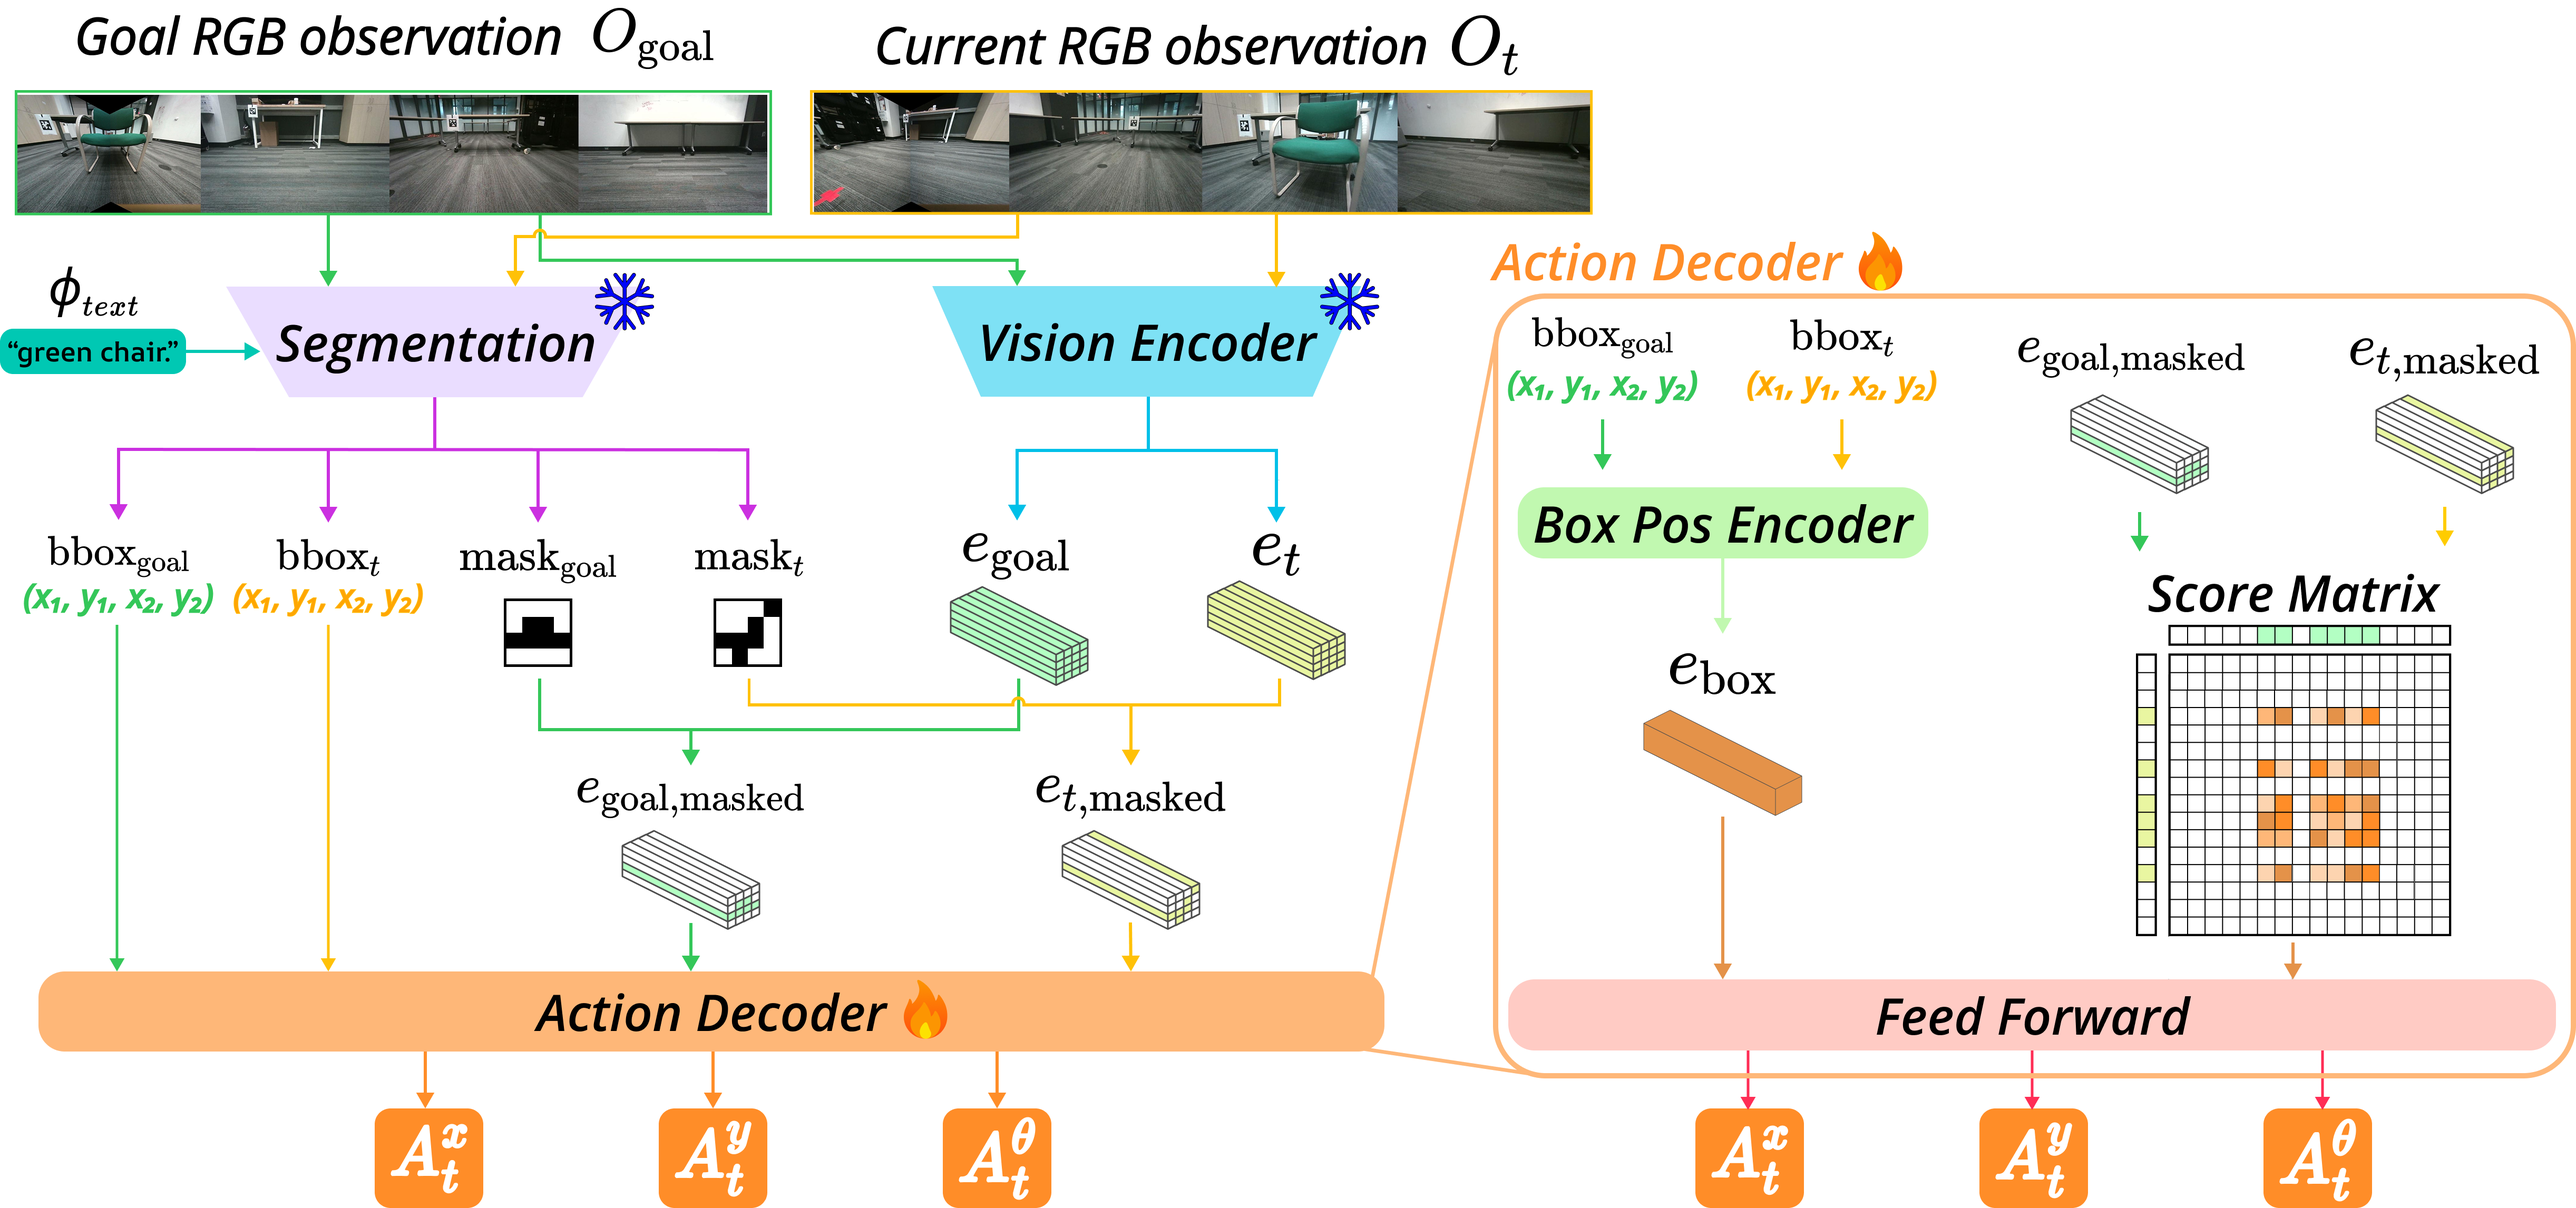
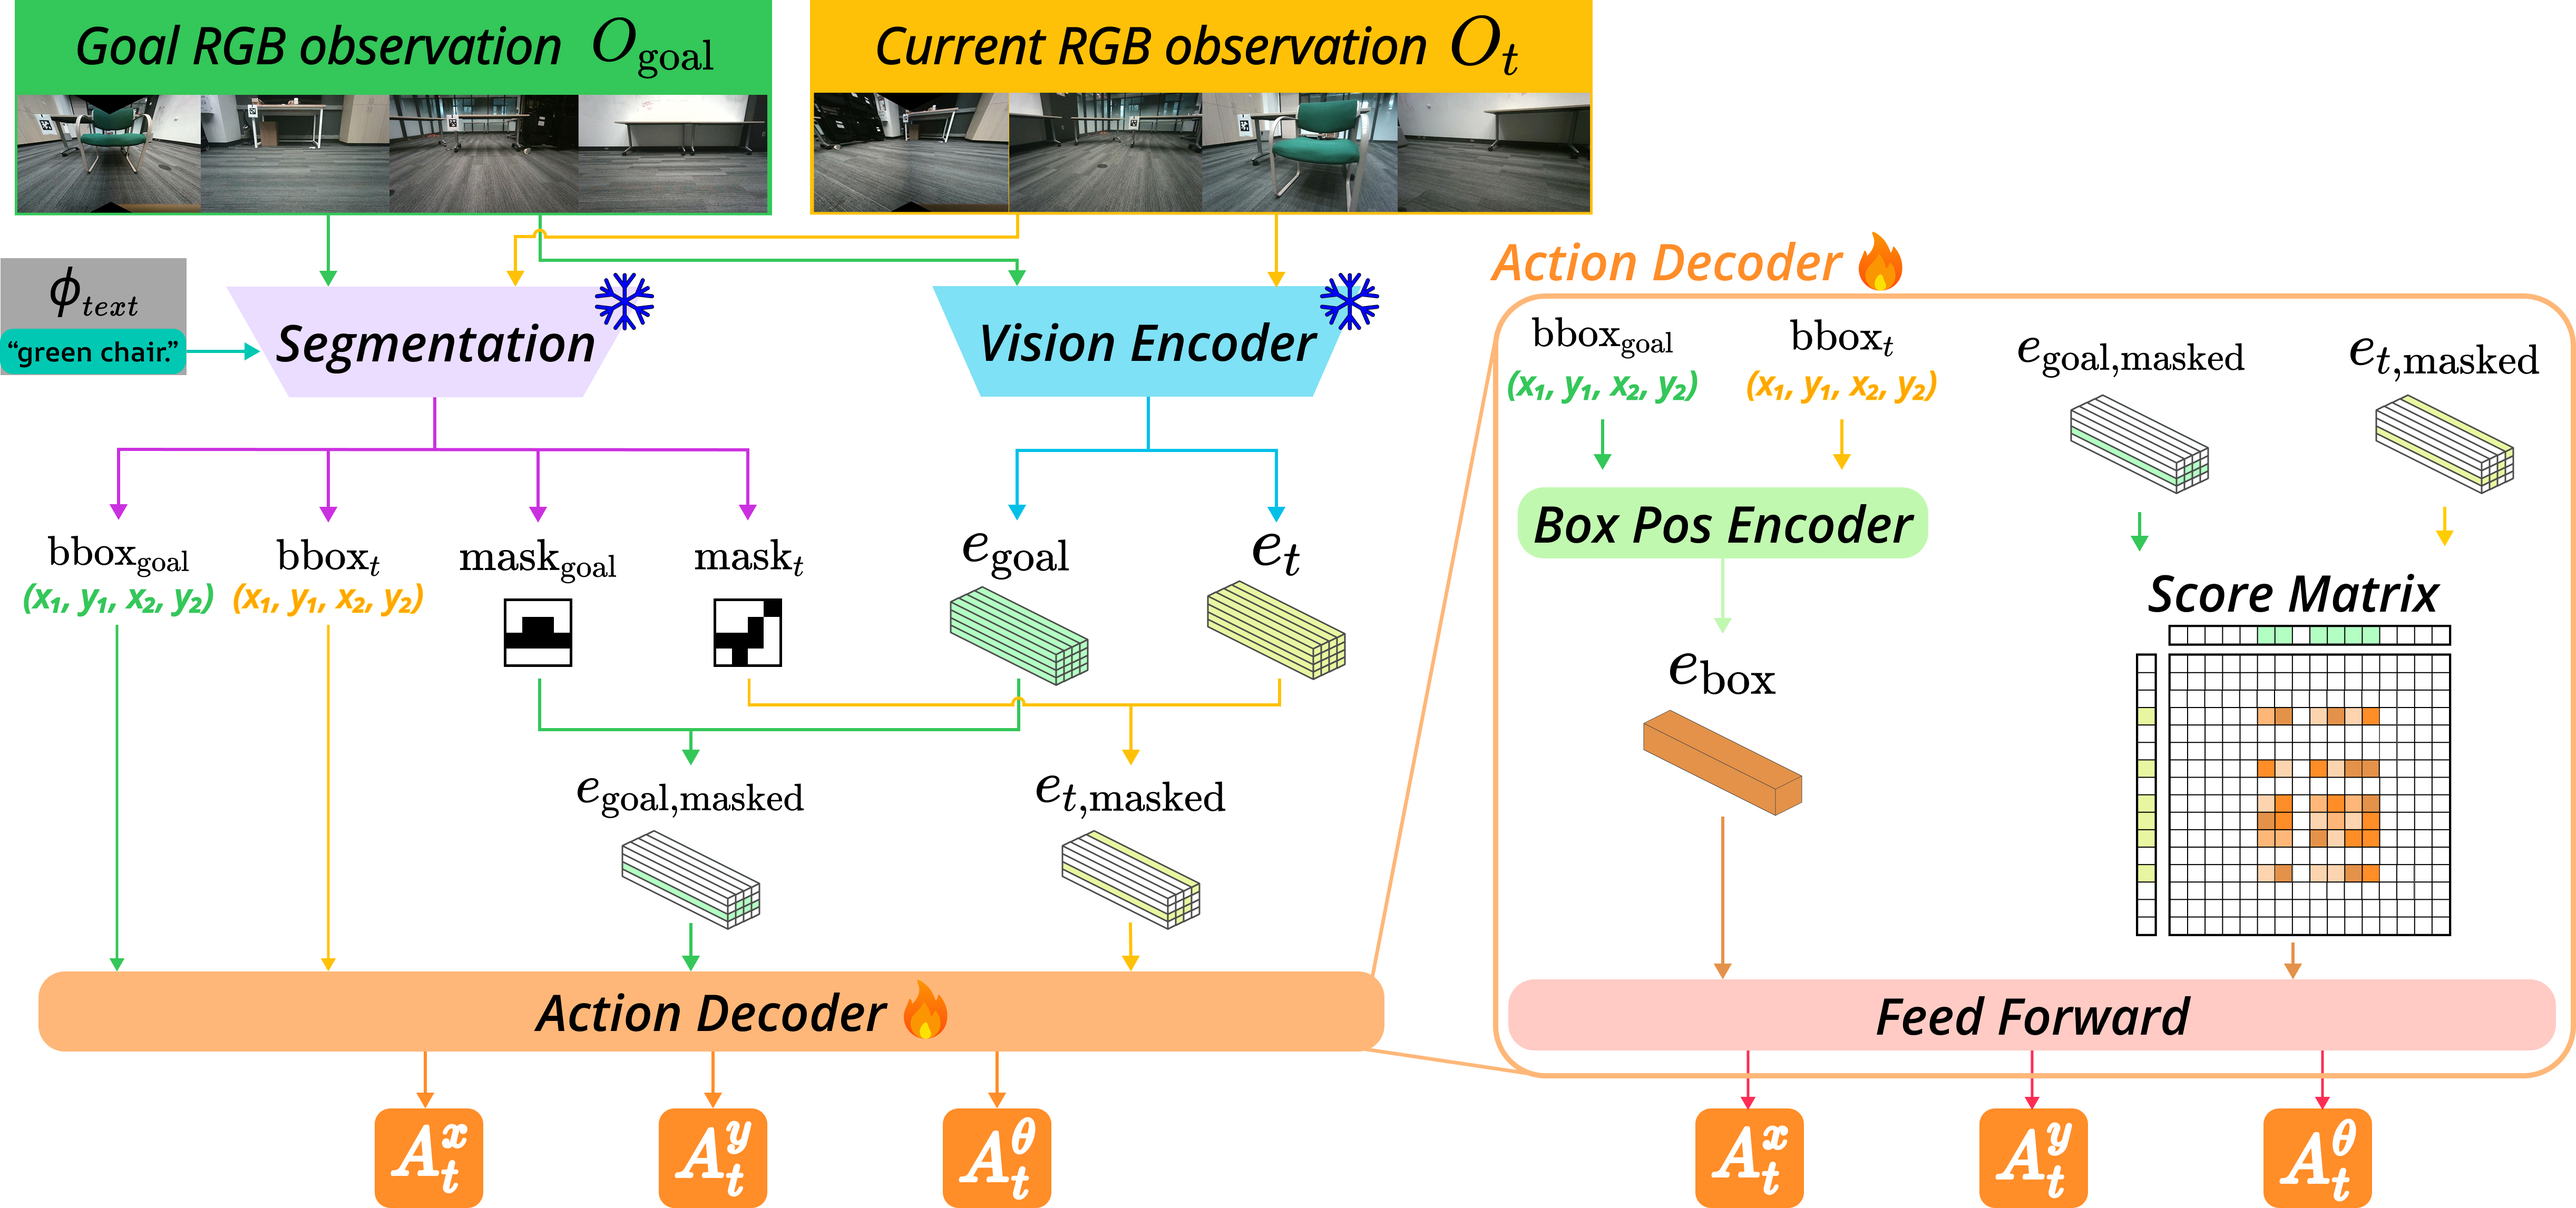
Update the website to keep it consistence with RAL submission

Changed region(s): [[0.0, 0.0, 0.6219, 0.0929], [0.0, 0.2167, 0.0933, 0.2787], [0.311, 0.1548, 0.3421, 0.1858]]

diff --git a/index.html b/index.html
@@ -6,7 +6,7 @@
         content="Learning Category-level Last-meter Navigation from RGB Demonstrations of a Single-instance">
   <meta name="keywords" content="Robotics, Navigation, Spot, Computer Vision, RGB-only">
   <meta name="viewport" content="width=device-width, initial-scale=1">
-  <title>Last-meter Nav: Last-meter Navigation</title>
+  <title>Category-level Last-meter Navigation</title>
 
   <link href="https://fonts.googleapis.com/css?family=Google+Sans|Noto+Sans|Castoro"
         rel="stylesheet">
@@ -154,6 +154,19 @@
         </p>
       </div>
 
+    </div>
+  </div>
+</section>
+
+<section class="section">
+  <div class="container is-max-desktop">
+    <h2 class="title is-3 has-text-centered">Video Presentation</h2>
+    <div class="publication-video" style="position: relative; padding-bottom: 56.25%; height: 0; overflow: hidden; width: 100%;">
+      <iframe 
+        src="https://drive.google.com/file/d/1y0wfaXJF0Luttk5PnHK2X9DwcfAF3dLZ/preview" 
+        style="position: absolute; top: 0; left: 0; width: 100%; height: 100%; border: 0;" 
+        allow="autoplay">
+      </iframe>
     </div>
   </div>
 </section>
@@ -337,7 +350,17 @@
   <div class="container is-max-desktop">
     <h2 class="title is-3 has-text-centered">Quantitative Results</h2>
     <div class="columns is-centered">
+
       <div class="column is-full-width">
+
+        <div class="content has-text-justified mt-4">
+          <p>
+            We evaluate several policies to understand what enables reliable category-level last-meter navigation.
+            Our full system, <strong>DinoScoreAux</strong>, achieves the highest success rates across both seen and unseen objects,
+            highlighting the importance of explicit object grounding, the spatial score-matrix representation, and an auxiliary stopping mechanism.
+            We further demonstrate strong generalization in three unseen indoor and outdoor environments.
+          </p>
+        </div>
         
         <figure class="image mb-5">
             <img src="./static/images/part1.png" alt="Part 1 Results">
@@ -347,11 +370,6 @@
             <img src="./static/images/part2.png" alt="Part 2 Results">
         </figure>
 
-        <div class="content has-text-justified mt-4">
-          <p>
-             Our system (DinoScoreAux) achieves the highest success rate among baselines, demonstrating the importance of the spatial score-matrix decoder and auxiliary stopping mechanism.
-          </p>
-        </div>
       </div>
     </div>
   </div>
